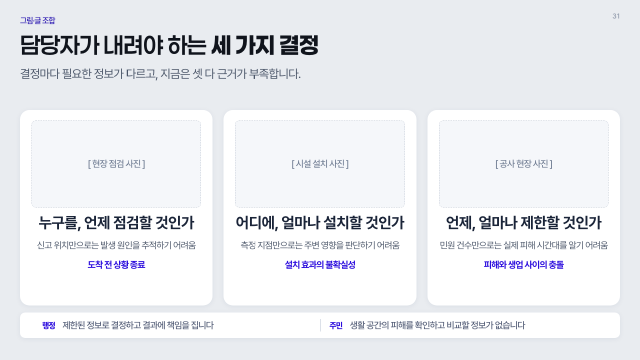
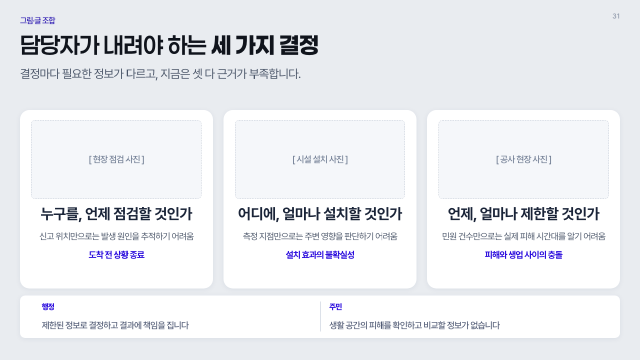
그래프: 시리즈 4개 제한 풀고(12개까지) 범례·색 정리, 막대 숫자 겹침 빼기, 원그래프(pie) 추가 — HTML·PPTX 둘 다
- 시리즈는 12개까지 그림. 색은 강조한 시리즈만, 나머지 회색. 범례는 모든 시리즈를 줄바꿈해 표시(전에는 5번째부터 색 없이 이름만 나오고 그래프에는 안 그려졌음)
- 값 숫자: 시리즈 3개까지는 전부, 4개 이상이면 강조한 시리즈만
- 막대 숫자가 서로 부딪히면 강조 순서(1→2→3→회색)대로 먼저 놓고 겹치는 숫자는 뺌. PPTX 막대 너비도 HTML 처럼 최대 5글자
- 원그래프(kind: pie): 12시 방향 시계 방향, 조각 색 colors.json chart.pie(primary 600→350→200 → gray), 조각 안 %(6% 이상), 오른쪽 범례 이름·값(비율). PPTX 는 기본 원형 차트 + 점별 라벨 글자색·숨김 보정
- 문서: outline-schema·block-choice(비중·구성비 → pie)·design-system 그래프 절. 견본 덱 다시 만듦

diff --git a/docs/templates/deck.html b/docs/templates/deck.html
@@ -276,9 +276,15 @@ table.rt{width:100%;border-collapse:collapse;font-size:calc(var(--fs-table) * va
 .pbar .trk{height:.75em;border-radius:999px;background:var(--bg-soft);overflow:hidden;} .pbar .trk i{display:block;height:100%;border-radius:999px;background:linear-gradient(90deg,var(--primary),var(--primary-2));}
 .pbar .pbf{border-top:1px solid var(--border);padding-top:.55em;text-align:center;font-size:var(--fs-label);font-weight:700;color:var(--primary);}
 /* kv: small table + highlight box side by side (성과 요약 카드) */
-.kv{display:flex;gap:1.2em;align-items:stretch;flex:1;min-height:0;}
-.kv .tbl{flex:1.4;min-height:0;display:flex;flex-direction:column;justify-content:center;}
-.kv .hbox{flex:1;}
+/* 카드 안 지표 비교(rows + highlight, 2026-10-18): 행 3개 이하면 좌우 칸(라벨 위·값 아래), 넘으면 표. 강조 상자는 그 아래 가로 한 줄 */
+.kv{display:flex;flex-direction:column;gap:.8em;flex:1;min-height:0;}
+.kv .tbl{flex:1;min-height:0;display:flex;flex-direction:column;justify-content:center;}
+.kv .kvh{flex:1;min-height:0;display:grid;grid-template-columns:repeat(var(--n),minmax(0,1fr));align-content:center;align-items:stretch;}   /* 라벨은 칸마다 같은 높이에서 시작 */
+.kv .kc{display:flex;flex-direction:column;align-items:center;justify-content:flex-start;text-align:center;gap:.35em;padding:0 .5em;}
+.kv .kc+.kc{border-left:1px solid var(--border);}
+.kv .kl{font-size:var(--fs-small);color:var(--text-mid);}
+.kv .kvv{font-size:var(--fs-table);font-weight:700;color:var(--text);line-height:1.25;word-break:keep-all;}
+.kv .hbox{flex:0 0 auto;flex-direction:row;align-items:baseline;gap:.5em;padding:.6em 1em;}
 .card .sl{font-size:var(--fs-small);color:var(--text-mid);font-weight:500;}
 .card .sv{font-size:var(--fs-stat);font-weight:800;color:var(--text);line-height:1.05;margin-top:.1em;letter-spacing:-.04em;font-variant-numeric:tabular-nums;}
 .card .sv small{font-size:.5em;margin-left:.05em;font-weight:700;}
@@ -343,7 +349,7 @@ table.rt{width:100%;border-collapse:collapse;font-size:calc(var(--fs-table) * va
 .chart .chh b{color:var(--body);font-weight:700;font-size:var(--fs-small);}   /* 그래프 제목 = 카드 안 소제목(.sh2)과 같은 글자 */
 .chart .chh span{color:var(--text-light);font-size:var(--fs-caption);}   /* 단위 = 캡션 글자 */
 .chart .cplot{flex:1;min-height:0;margin-top:.5em;display:flex;} .chart .cplot svg{width:100%;height:100%;display:block;}
-.chart .lg{display:flex;justify-content:center;gap:1.4em;font-size:var(--fs-small);color:var(--body);font-weight:500;margin-top:.35em;}   /* 범례 = 작은 라벨 톤 */ .chart .lg i{display:inline-block;width:.6em;height:.6em;border-radius:2px;margin-right:.4em;vertical-align:0;}
+.chart .lg{display:flex;flex-wrap:wrap;justify-content:center;gap:.3em 1.4em;font-size:var(--fs-small);color:var(--body);font-weight:500;margin-top:.35em;}   /* 범례 = 작은 라벨 톤 */ .chart .lg i{display:inline-block;width:.6em;height:.6em;border-radius:2px;margin-right:.4em;vertical-align:0;}
 /* cover / toc / divider / closing */
 /* 표지 배경 — meta.coverBg 로 고른 이미지. 마무리 장표도 같은 그림을 깐다(2026-10-18) */
 .cover{position:absolute;inset:0;overflow:hidden;color:#fff;}
@@ -698,7 +704,7 @@ table.rt{width:100%;border-collapse:collapse;font-size:calc(var(--fs-table) * va
     <div class="body" style="--body-top:220px;--safe-bottom:44px"><div class="blk" style="flex:1 1 0"><div class="inner"><div class="fcg" style="grid-template-columns:repeat(2,1fr)"><div class="fc fside"><div class="ftx"><div class="ftl">실시간 사고&nbsp;감지<br><b>골든타임&nbsp;확보</b></div></div><div class="fim"><div class="ph">[ 작업자 일러스트 ]</div></div></div><div class="fc fside"><div class="ftx"><div class="fey">설비 이상 징후&nbsp;등</div><div class="ftl">사고·고장<br><b>예방 수단&nbsp;확보</b></div></div><div class="fim"><div class="ph">[ 안전 장비 일러스트 ]</div></div></div><div class="fc fside"><div class="ftx"><div class="fey">지도·점검 기록&nbsp;필요</div><div class="ftl">법적&nbsp;의무<br><b>이행 근거&nbsp;확보</b></div></div><div class="fim"><div class="ph">[ 도면 든 작업자 일러스트 ]</div></div></div><div class="fc fside"><div class="ftx"><div class="ftl">순찰·점검&nbsp;인력<br><b>운영비&nbsp;절감</b></div></div><div class="fim"><div class="ph">[ 통제 표지 일러스트 ]</div></div></div></div></div></div></div>
     
   </section>
-<section class="slide" data-label="5-2 담당자가 내려야 하는 **세 가지 결정**" id="s31" data-fit="1" style="--k: 1.16;" style="--k:1.15">
+<section class="slide" data-label="5-2 담당자가 내려야 하는 **세 가지 결정**" id="s31" data-fit="1" style="--k: 1.13;" style="--k:1.12">
     <div class="top"><div class="eyebrow"><span>그림·글 조합</span><span class="pgno">31</span></div><div class="stitle">담당자가 내려야 하는 <b>세 가지&nbsp;결정</b></div><div class="rule"></div><div class="slead">결정마다 필요한 정보가 다르고, 지금은 셋 다 근거가 부족합니다.</div></div>
     <div class="body" style="--body-top:220px;--safe-bottom:44px"><div class="blk" style="flex:1 1 0"><div class="inner"><div class="fcg" style="grid-template-columns:repeat(3,1fr)"><div class="fc ftop ctr"><div class="fim"><div class="ph">[ 현장 점검 사진 ]</div></div><div class="ftl">누구를, 언제 점검할 것인가</div><div class="fds">신고 위치만으로는 발생 원인을 추적하기 어려움</div><div class="fnt">도착 전 상황&nbsp;종료</div></div><div class="fc ftop ctr"><div class="fim"><div class="ph">[ 시설 설치 사진 ]</div></div><div class="ftl">어디에, 얼마나 설치할 것인가</div><div class="fds">측정 지점만으로는 주변 영향을 판단하기 어려움</div><div class="fnt">설치 효과의 불확실성</div></div><div class="fc ftop ctr"><div class="fim"><div class="ph">[ 공사 현장 사진 ]</div></div><div class="ftl">언제, 얼마나 제한할 것인가</div><div class="fds">민원 건수만으로는 실제 피해 시간대를 알기 어려움</div><div class="fnt">피해와 생업 사이의&nbsp;충돌</div></div></div></div></div><div class="blk" style="flex:0 0 auto"><div class="inner"><div class="strip"><div class="sit kv"><b>행정</b><span>제한된 정보로 결정하고 결과에 책임을 집니다</span></div><div class="sit kv"><b>주민</b><span>생활 공간의 피해를 확인하고 비교할 정보가 없습니다</span></div></div></div></div></div>
     
@@ -770,7 +776,37 @@ table.rt{width:100%;border-collapse:collapse;font-size:calc(var(--fs-table) * va
   var draw = function(b, W, H, C, fs) {
   fs = fs || 21;   // 글자 기준 크기(px) = 장표의 작은 글(--fs-small × 배율). 그림 좌표 1 = 화면 1px
   var esc = function(s) { return String(s == null ? '' : s).replace(/[&<>"]/g, function(c) { return ({'&':'&amp;','<':'&lt;','>':'&gt;','"':'&quot;'})[c]; }); };
-  var labels = b.labels || [], series = (b.series || []).slice(0, 4), cols = b.colors || C.series;
+  var labels = b.labels || [], series = (b.series || []).slice(0, 12), cols = b.colors || C.series;
+  var out = '<svg viewBox="0 0 ' + W + ' ' + H + '" preserveAspectRatio="xMidYMid meet" xmlns="http://www.w3.org/2000/svg" font-family="inherit">';
+  var lum = function(hex) { var m = String(hex).replace('#', ''); if (m.length !== 6) return 0; var r = parseInt(m.slice(0, 2), 16), g = parseInt(m.slice(2, 4), 16), bb = parseInt(m.slice(4, 6), 16); return (0.299 * r + 0.587 * g + 0.114 * bb) / 255; };
+  if (b.kind === 'pie') {
+    // 원그래프(2026-10-18) — 첫 시리즈 값만 쓴다. 12시 방향에서 시계 방향, 조각 사이 흰 선. 조각 안에는 비율(%), 오른쪽 범례에 이름 · 값 · 비율.
+    // 6% 미만 조각은 안에 글자를 넣지 않는다(범례에서 읽음). 진한 조각은 흰 글자, 연한 조각은 진한 글자
+    var pv = ((series[0] || {}).values || []).map(function(v) { return typeof v === 'number' && v > 0 ? v : 0; });
+    var tot = pv.reduce(function(a, v) { return a + v; }, 0) || 1;
+    var fsl = fs * (C.labelRatio || 0.875), rowH = fs * 1.75, lgW = Math.min(W * 0.46, fs * 11);
+    var R = Math.max(10, Math.min((H - fs) / 2, (W - lgW - fs * 3) / 2)), grpW = R * 2 + fs * 2.5 + lgW, gx = Math.max(0, (W - grpW) / 2), cx = gx + R, cy = H / 2;   // 원 + 범례를 한 덩어리로 가운데
+    var pct = function(v) { var p = v / tot * 100; return (p >= 10 || p === 0 ? Math.round(p) : Math.round(p * 10) / 10) + '%'; };
+    var a0 = -Math.PI / 2;
+    pv.forEach(function(v, i) {
+      if (!v) return;
+      var a1 = a0 + v / tot * Math.PI * 2, col = cols[i];
+      if (v >= tot) out += '<circle cx="' + cx + '" cy="' + cy + '" r="' + R + '" fill="' + col + '"/>';
+      else out += '<path d="M' + cx + ',' + cy + ' L' + (cx + R * Math.cos(a0)).toFixed(1) + ',' + (cy + R * Math.sin(a0)).toFixed(1) + ' A' + R + ',' + R + ' 0 ' + (a1 - a0 > Math.PI ? 1 : 0) + ' 1 ' + (cx + R * Math.cos(a1)).toFixed(1) + ',' + (cy + R * Math.sin(a1)).toFixed(1) + ' Z" fill="' + col + '" stroke="#FFFFFF" stroke-width="2" stroke-linejoin="round"/>';
+      if (v / tot >= 0.06) { var am = (a0 + a1) / 2, tr = v >= tot ? 0 : R * 0.64; out += '<text x="' + (cx + tr * Math.cos(am)).toFixed(1) + '" y="' + (cy + tr * Math.sin(am) + fs * 0.35).toFixed(1) + '" text-anchor="middle" font-size="' + fs + '" font-weight="700" font-variant-numeric="tabular-nums" fill="' + (lum(col) < 0.55 ? '#FFFFFF' : C.text) + '">' + pct(v) + '</text>'; }
+      a0 = a1;
+    });
+    var lx0 = gx + R * 2 + fs * 2.5, lx1 = lx0 + lgW, ly0 = cy - rowH * pv.length / 2 + rowH / 2;
+    pv.forEach(function(v, i) {
+      var yy = ly0 + rowH * i;
+      out += '<rect x="' + lx0 + '" y="' + (yy - fs * 0.32) + '" width="' + (fs * 0.6) + '" height="' + (fs * 0.6) + '" rx="2" fill="' + cols[i] + '"/>';
+      out += '<text x="' + (lx0 + fs * 1.05) + '" y="' + (yy + fs * 0.32) + '" font-size="' + fsl + '" font-weight="500" fill="' + C.body + '">' + esc(labels[i] == null ? '' : labels[i]) + '</text>';
+      out += '<text x="' + lx1 + '" y="' + (yy + fs * 0.32) + '" text-anchor="end" font-size="' + fsl + '" font-weight="600" font-variant-numeric="tabular-nums" fill="' + C.text + '">' + esc((series[0].values || [])[i]) + ' <tspan fill="' + C.textMid + '" font-weight="500">(' + pct(v) + ')</tspan></text>';
+    });
+    return out + '</svg>';
+  }
+  // 값 숫자를 다는 시리즈(2026-10-18): 3개까지는 전부, 4개 이상이면 강조(색을 받은) 시리즈만 — 회색 시리즈 숫자까지 달면 읽을 수 없다
+  var showV = series.map(function(sr) { return series.length <= 3 || sr.em !== false; });
   var all = [].concat.apply([], series.map(function(sr) { return sr.values || []; })).filter(function(v) { return typeof v === 'number'; });
   var max = Math.max.apply(null, [1].concat(all)) * 1.25, min = Math.min.apply(null, [0].concat(all));
   var padL = 20, padR = 20, padT = fs * 2.2, padB = fs * 2.6;   // 좌우 여백 20px, 위는 값 라벨, 아래는 축 라벨 자리
@@ -793,18 +829,26 @@ table.rt{width:100%;border-collapse:collapse;font-size:calc(var(--fs-table) * va
     for (i = 0; i < k - 1; i++) { var hh = dx[i] / 3; d += ' C' + (pts[i][0] + hh).toFixed(1) + ',' + (pts[i][1] + t[i] * hh).toFixed(1) + ' ' + (pts[i + 1][0] - hh).toFixed(1) + ',' + (pts[i + 1][1] - t[i + 1] * hh).toFixed(1) + ' ' + pts[i + 1][0] + ',' + pts[i + 1][1]; }
     return d;
   };
-  var out = '<svg viewBox="0 0 ' + W + ' ' + H + '" preserveAspectRatio="xMidYMid meet" xmlns="http://www.w3.org/2000/svg" font-family="inherit">';
   for (var g = 0; g <= 4; g++) { var gy = (padT + (H - padT - padB) * g / 4).toFixed(1); out += '<line x1="' + padL + '" y1="' + gy + '" x2="' + (W - padR) + '" y2="' + gy + '" stroke="' + C.border + '" stroke-opacity=".6" stroke-width="1"/>'; }
   var fl = fs * (C.labelRatio || 0.875);   // 축 라벨 = 라벨 토큰(14/16)
   labels.forEach(function(l, i) { out += '<text x="' + lx(i) + '" y="' + (H - padB + fs * 1.7) + '" text-anchor="middle" font-size="' + fl + '" font-weight="500" fill="' + C.body + '">' + esc(l) + '</text>'; });   // 축 라벨 = 작은 라벨(.stat .sl)
   if (b.kind === 'bar') {
-    var bw = Math.min(fs * 5, gw * 0.72 / series.length), r = series.length > 1 ? fs * 0.3 : fs * 0.5;
+    var bw = Math.min(fs * 5, gw * 0.72 / series.length), r = series.length > 1 ? fs * 0.3 : fs * 0.5, gapB = Math.min(8, bw * 0.25), cand = [];
     series.forEach(function(sr, si) { (sr.values || []).forEach(function(v, i) {
-      var bx = padL + gw * i + gw / 2 - (bw * series.length) / 2 + bw * si + 4, w = bw - 8;
+      var bx = padL + gw * i + gw / 2 - (bw * series.length) / 2 + bw * si + gapB / 2, w = Math.max(1, bw - gapB);
       var top = y(v), bot = H - padB, rr = Math.min(r, Math.max(0, bot - top) / 2, w / 2);
       out += '<path d="M' + bx + ',' + bot + ' V' + (top + rr) + ' Q' + bx + ',' + top + ' ' + (bx + rr) + ',' + top + ' H' + (bx + w - rr) + ' Q' + (bx + w) + ',' + top + ' ' + (bx + w) + ',' + (top + rr) + ' V' + bot + ' Z" fill="' + cols[si] + '"/>';
-      out += '<text x="' + (bx + w / 2) + '" y="' + (top - fs * 0.6) + '" text-anchor="middle" font-size="' + fs + '" font-weight="600" font-variant-numeric="tabular-nums" fill="' + C.text + '"' + halo + '>' + esc(v) + '</text>';
+      if (showV[si] && typeof v === 'number') cand.push({ si: si, v: v, cx: bx + w / 2, by: top - fs * 0.6, tw: String(v).length * fs * 0.6 + 4 });
     }); });
+    // 막대 숫자 겹침(2026-10-18): 막대가 좁아 숫자끼리 부딪히면 강조 순서(1→2→3, 그다음 회색)대로 먼저 놓고, 이미 놓인 숫자와 겹치는 것은 뺀다
+    var rank = function(c) { var e = series[c.si].emphasis; return series[c.si].em === false ? 9 : (e || 1); };
+    cand.sort(function(a, c) { return rank(a) - rank(c) || a.si - c.si; });
+    var placed = [];
+    cand.forEach(function(c) {
+      var hit = placed.some(function(p) { return Math.abs(p.cx - c.cx) < (p.tw + c.tw) / 2 && Math.abs(p.by - c.by) < fs * 0.95; });
+      if (hit) return; placed.push(c);
+      out += '<text x="' + c.cx.toFixed(1) + '" y="' + c.by.toFixed(1) + '" text-anchor="middle" font-size="' + fs + '" font-weight="600" font-variant-numeric="tabular-nums" fill="' + C.text + '"' + halo + '>' + esc(c.v) + '</text>';
+    });
   } else {
     // 값 라벨 자리(2026-10-18) — 같은 달에 선끼리 높이가 비슷하면 숫자가 겹쳐 안 보였다. 달마다 점을 위→아래로 줄 세우고,
     // 가까운 점(1.9글자 이내)끼리 묶어 위쪽 절반은 맨 위 점 위로 쌓고 아래쪽 절반은 맨 아래 점 밑으로 쌓는다(줄 순서 = 선 순서).
@@ -812,7 +856,7 @@ table.rt{width:100%;border-collapse:collapse;font-size:calc(var(--fs-table) * va
     var ly = series.map(function() { return []; }), gap = fs * 1.05, near = fs * 1.9, topY = fs * 0.95, botY = H - padB - fs * 0.15;
     for (var ci = 0; ci < n; ci++) {
       var col = [];
-      series.forEach(function(sr, si) { var v = (sr.values || [])[ci]; if (typeof v === 'number') col.push({ si: si, py: y(v) }); });
+      series.forEach(function(sr, si) { var v = (sr.values || [])[ci]; if (showV[si] && typeof v === 'number') col.push({ si: si, py: y(v) }); });
       col.sort(function(a, c) { return a.py - c.py; });
       var cut = [0];   // 묶음 시작 위치들
       for (var c0 = 1; c0 < col.length; c0++) if (col[c0].py - col[c0 - 1].py >= near) cut.push(c0);
@@ -857,6 +901,15 @@ table.rt{width:100%;border-collapse:collapse;font-size:calc(var(--fs-table) * va
   if (document.readyState === 'loading') document.addEventListener('DOMContentLoaded', redraw); else redraw();
   window.addEventListener('load', redraw);
   window.addEventListener('resize', redraw);
+})();
+</script>
+<script>
+/* 미리보기 화면이 다른 주소(웹 판 → 내 컴퓨터 서버)에서 이 덱을 띄우면 장을 직접 읽을 수 없다.
+   장이 바뀔 때마다 바깥 창에 "몇 번째 장 · 어느 섹션의 몇 번째 장(data-src)" 을 알려 준다 — 템플릿 바꾸기 단추가 쓴다(2026-10-18) */
+(function () {
+  if (window.parent === window) return;
+  function send(i) { var s = document.querySelectorAll('deck-stage > section')[i]; try { window.parent.postMessage({ pptDeckSlide: i, src: s ? s.getAttribute('data-src') : null }, '*'); } catch (e) {} }
+  window.addEventListener('message', function (e) { if (e.source === window && e.data && typeof e.data.slideIndexChanged === 'number') send(e.data.slideIndexChanged); });
 })();
 </script>
 <script src="deck-stage.js"></script>

diff --git a/skills/ppt-maker/references/design-system.md b/skills/ppt-maker/references/design-system.md
@@ -29,6 +29,7 @@
 - **그래프 색**(2026-10-11): 시리즈는 `emphasis` 1~3 을 준 것만 색을 받고 나머지는 gray 400. 위계 없음(`ranked` 없음) = primary 600 → teal → gold, 위계 있음(`ranked: true`) = primary 600 → 350(`#6C59FF`, 400과 300의 중간) → 200. 아무도 emphasis 가 없으면 첫 시리즈만 강조. 값은 `colors.json` 의 `chart`.
 - **회색 이름**(2026-10-11): gray 50 `#F5F7FA`(표 타이틀 바탕) · 100 `#E9ECF0`(장표 바탕) · 200 `#D9DEE6`(표 안쪽 선) · 300 `#CFD4DC` · 400 `#B9C3D2`(안내선·그래프 비강조) · 500 `#8B95A7`(캡션·장 번호) · 600 `#515B75`(카드 소제목·축 라벨) · 700 `#4A5568`(리드·표 머리글·표 선) · 800 `#1A2438`(본문) · 900 `#10141C`(헤드라인·강조 배너). 코드의 `--text`·`--text-mid` 같은 이름은 `gray.role` 로 이 단계에 묶인다.
 - **그래프(chart)**(2026-10-10): 글자 역할은 기존 부품과 맞춘다 — 제목은 카드 안 소제목(`.sh2`: 본문 0.94배 굵게 `--body`), 단위는 캡션 톤(`--text-light`, 작은 글 −4px), 축 라벨·범례는 작은 라벨(`--body` 500), 값은 표 값(600 `--text` tabular). 그래프 칸의 실제 크기대로 그린다(그림 1 = 화면 1px). **좌우 여백 20px**, 가로 격자선 4칸. 글자는 그 칸의 작은 글 크기(`--fs-small` × 배율)를 따른다 — 축 라벨 0.9배, 값 라벨 1배, 점 반지름 0.3배, 선 굵기 0.18배, 막대 최대 너비 5배(묶음 너비의 72%). 시리즈가 둘 이상이면 값 숫자에 흰 테두리 8px(다른 선·막대와 겹쳐도 읽히게). **선 그래프 값 숫자는 서로 겹치면 안 된다**(2026-10-18): 같은 달에 선 높이가 비슷하면(1.9글자 이내) 묶어서 위쪽 선 숫자는 맨 위 점 위로, 아래쪽 선 숫자는 맨 아래 점 밑으로 한 줄씩(1.05글자 간격) 쌓는다. 숫자 줄 순서 = 선 순서. 위 묶음 아래 숫자와 아래 묶음 위 숫자가 부딪히면 두 묶음을 합치고, 그림 위·축 라벨 칸을 넘지 않게 당긴다. 숫자는 모든 선·점을 그린 뒤에 그린다. PPTX 도 같은 규칙: 시리즈가 둘 이상인 선 그래프는 그림 칸을 고정하고, 저장한 뒤 점별 값 라벨(c:dLbl)에 위치만 옮겨 넣는다(서식·데이터 편집은 그대로). 값 서식은 모두 정수면 `#,##0`, 아니면 `General`(`#,##0.##` 는 PowerPoint 에서 "8." 처럼 점이 붙는다).
+- **그래프 개수 규칙·원그래프**(2026-10-18): 시리즈는 12개까지 그린다(권장 1~3). 색은 강조(`emphasis`)한 시리즈만, 나머지는 회색(`chart.other`). 범례는 모든 시리즈를 줄바꿈해 보여 준다. **값 숫자는 시리즈 3개까지는 전부, 4개 이상이면 강조한 시리즈만.** 막대 숫자가 좁아서 서로 부딪히면 강조 순서(1→2→3→회색)대로 먼저 놓고 겹치는 숫자는 뺀다. 막대 너비는 최대 5글자(PPTX 는 막대 사이 간격을 넓혀 맞춤). **원그래프(`kind: "pie"`)**: 12시 방향에서 시계 방향, 조각 사이 흰 선 2px, 조각 색은 `chart.pie`(primary 600→350→200 → gray 500→400→300→200). 조각 안 비율(%)은 6% 이상만, 진한 조각은 흰 글자·연한 조각은 진한 글자. 원 오른쪽 범례 = 색 · 이름 · 값 (비율), 원과 범례를 한 덩어리로 가운데. PPTX 는 기본 원형 차트 + 범례는 글상자.
 - **간트(gantt)**(2026-10-09, 레퍼런스 "시간표" 모양으로 바꿈): 위에 진한 머리띠(`--primary-deep`, 내용보다 좌우 8px 넓게, 글자는 내용 끝선에 맞춤, 아래 행과 8px 간격, 열 라벨 흰 글자 왼쪽 정렬, 열 사이 연한 세로선), 왼쪽 항목 이름 열(24%, 굵게). 이름 끝에서 막대 시작까지 1px 안내선(`--border-strong`). 막대는 글자 1.45배 높이, 라벨(`label`)은 막대 안 흰 글자, `from`·`to`는 막대 앞뒤 회색 작은 글자. 막대 색은 tone — primary 메인 / second `--primary-2` / accent 알약 그라데이션 색 / muted `--text-mid`. 오른쪽 끝에는 `to` 라벨 자리(3.4em)를 머리띠·트랙 모두 비워 둔다. 세로 격자선·가로 구분선 없음.
 - **표**(2026-10-04, Figma SAFE AI 디자인 시스템 Data Table 을 따름): 시작·끝은 **3px 회색 선**(`--text-mid` #4A5568, 2026-10-09 검정 2px 에서 바꿈), 안쪽 행 구분은 1px 연회색 선(`--border`), 세로선 없음. **타이틀 영역(머리글 행)** 은 연회색 바탕(`--bg-soft`)·**굵게(bold)·회색 글자(`--text-mid`)**. **본문 칸은 보통 굵기(regular)·검정(`--text`)**. **세로 타이틀이 있는 표(`rowHeader: true`)** 는 첫 열도 타이틀 영역 — 연회색 바탕·굵게·회색 글자, 오른쪽 1px 선. 첫 칸이 합계·총계·평균인 행만 연회색 바탕·굵게. 배지 색(2026-10-09): 달성·완료·충족은 메인 컬러 계열(연한 메인 바탕 + 메인 글자), 조기달성은 `--primary-2`, 진행중은 주황, 미달은 회색. **정렬**: 금액·비율·개수처럼 수치 열(빈 칸을 뺀 칸의 60% 이상이 수치, 2026-10-18)은 오른쪽(tabular-nums), 글이 섞인 열("1분 이내", "다음 날")과 첫 열은 왼쪽. 빈 칸·대시는 세지 않는다. 강조 열만 머리글 포인트 컬러 글자(밑줄은 다른 열과 같은 1px 선), 칸은 글자색만 포인트 컬러(바탕 칠하지 않음, 굵기 그대로). **카드 안 작은 표(라벨·값 두 칸, `rows`)** 는 표가 아니라 값 목록처럼: 위·아래 검정 선 없음, 라벨 회색(`--text-mid`), 값 오른쪽 정렬·굵게, 행 사이 1px 선. **크기는 내용에 맞춘다**: `widths` 가 없으면 열 너비를 칸 글자 양에 맞춰 나누고(긴 글 열은 넓게, 숫자 열은 좁게, 열마다 최소 8%), 머리글도 칸이 좁으면 줄바꿈한다. 세로는 본문 배율(`--k`)을 0.75까지 줄이고, 그래도 넘치면 표 글자만 0.75배(`--kt`, 약 10pt)까지 더 줄인다. 그래도 한 장에 안 들어가는 표는 빌드할 때 행을 고르게 나눠 여러 장으로 편다(머리글 반복, 제목 뒤 "(계속)", 표 위 블록은 첫 장·아래 블록은 마지막 장).
 - **배너(callout)**(2026-10-08 밝게 반전): 메인 컬러를 아주 연하게 깐 둥근 박스(`--banner` = 메인 12% · 보라면 연보라) + 메인 컬러를 연하게 한 테두리 1.5px(`--banner-border` = 메인 40%)로 연회색 장표 바탕과 구분한다. **라벨("특이사항"/"참고"/"핵심 요약")은 박스 안 왼쪽**에 포인트 컬러(`--banner-label`) 15pt 굵게, 본문 불릿은 오른쪽에 회색(`--banner-text` #515B75) 14pt, 본문 안 굵은 글씨는 포인트 컬러. 밖으로 걸치는 흰 칩은 쓰지 않는다. 배너는 **낮게** 쓴다: 안쪽 여백 `.75em 1.6em`(small 기준), 라벨–본문 간격 1.6em, 줄 사이 ≤0.35em. **위계 셋**(2026-10-09): 기본 = 위 연한 메인 컬러 바탕(테두리는 메인 32%) · `warn` 주의 = 진보라 바탕(primary 800 에 검정 30% #1C0F7B, 2026-10-18 — 빨강은 너무 튀었다. 메인 컬러를 바꾸면 같이 바뀐다)·흰 라벨·연보라 본문 · `strong` 강조 = 검정 바탕(`--title`)·흰 라벨·연회색 본문(`--border`). **라벨은 가운데가 아니라 본문 첫 줄과 같은 높이에서 시작**(`align-items:baseline`).

diff --git a/skills/ppt-maker/references/outline-schema.md b/skills/ppt-maker/references/outline-schema.md
@@ -75,7 +75,7 @@
 | `gantt` | `cols:["1월",…], nameHeader?, tasks:[{name, start, end, tone?:"primary"\|"second"\|"accent"\|"muted", label?(막대 안), from?·to?(막대 앞뒤 시작·끝 표시)}], heading?` | **여러 일이 겹치는 일정표.** 왼쪽 항목 이름, 위 기간 라벨, 세로 격자선, 가로 막대. `start`·`end` 는 1부터 세는 칸 번호(끝 포함, 2.5 처럼 반 칸 가능). 막대 색은 tone(기본 포인트 컬러, muted 회색). 겹치지 않는 단계 나열은 timeline | 행 3~8 · 칸 4~12 |
 | `table` | `headers, rows, emphasize?(열 index), leftAlign?([열 index]), widths?(["20%",…]), rowHeader?(true)` | 비교표, 평가지표 대응표, 예산. 강조 열은 글자색만 포인트 컬러(바탕·굵기는 그대로). `widths` 를 안 주면 열 너비는 칸 글자 양에 맞춰 자동으로 나뉜다. 한 장에 다 안 들어가는 표는 빌드할 때 행을 고르게 나눠 여러 장으로 편다(머리글 반복, 제목 뒤 "(계속)"). 첫 열이 각 행의 항목 이름(세로 타이틀)이면 `rowHeader: true` → 첫 열도 머리글처럼 연회색 바탕·회색 글자. 셀에 `**굵게**` 가능. "달성/조기달성/진행중" 은 배지로 표시 | 행 3~7 |
 | `stats` | `stats:[{label, sub?, value, desc?}]` | 핵심 수치 카드(`label` = 라벨 칩, `sub` = 작은 지표명, `value` 큰 숫자+단위, `desc` 파란 보조 문장 "전월 31만 회 · 35% 성장") | 2~4 |
-| `chart` | `kind:"line"\|"bar", title, unit?, labels:[…], series:[{name, values:[…], emphasis?:1\|2\|3}], ranked?:true, heading?` | **월별 추이 등 수치는 표로 나열하지 말고 그래프로**. 시리즈 1~3개. **색은 강조로 정한다**: `emphasis` 1~3 을 준 시리즈만 색을 받고 나머지는 연한 회색. 강조끼리 위계(1위>2위>3위)가 있으면 `ranked: true` → primary 600→350→200, 대등하면 primary→teal→gold. 아무것도 안 적으면 첫 시리즈만 강조. 채널별 추이 그래프는 형식을 통일 | 1 |
+| `chart` | `kind:"line"\|"bar"\|"pie", title, unit?, labels:[…], series:[{name, values:[…], emphasis?:1\|2\|3}], ranked?:true, heading?` | **월별 추이 등 수치는 표로 나열하지 말고 그래프로**. 시리즈 1~3개 권장(12개까지 그림, 4개 이상이면 강조한 시리즈에만 값 숫자). **`pie`(원그래프)** 는 비중·구성비: `labels` = 조각 이름, `series[0].values` = 조각 값(큰 것부터, 2~6개 · 넘으면 "기타"로 묶기). 색은 메인 컬러 위계 → 회색 순, 조각 안 %, 오른쪽 범례에 이름·값(비율). **색은 강조로 정한다**: `emphasis` 1~3 을 준 시리즈만 색을 받고 나머지는 연한 회색. 강조끼리 위계(1위>2위>3위)가 있으면 `ranked: true` → primary 600→350→200, 대등하면 primary→teal→gold. 아무것도 안 적으면 첫 시리즈만 강조. 채널별 추이 그래프는 형식을 통일 | 1 |
 | `compare` | `left:{tag?, heading, items}, right:{tag?, heading, items}`, `result?:{heading, items:["…" \| {k, v}]}` | AS-IS→TO-BE, 난제→해법. `tag` 기본 AS-IS/TO-BE, 오른쪽이 연파랑 강조. **`result`** 를 주면 두 편을 붙여 놓고 ▶ 뒤에 번호 목록 결과판(비교 → 효과) | 항목 3~4 · 결과 3~4 |
 | `image` | `src, alt?, caption?, heading?, side:"left"\|"right"\|"full", ratio?:"16:9"\|"4:3"\|"1:1"\|"9:16"\|"3:4"\|"original", text?:{heading, items}, flex?` | 구성도·화면·사진. `src`가 비어 있으면 `[ alt ]` 점선 자리표시자. **`ratio` 기본 16:9** — 원본이 다르면 사용자에게 묻고, 고른 비율 상자에 맞춰 가장자리를 잘라 채운다(`original` 만 안 자름) | 1 |
 | `figcards` | `cards:[{head?:{no, text}, eyebrow?, title, desc?, items?, note?, foot?:{label, text}, image, alt?}]`, `layout:"side"\|"top"`, `cols?`, `arrows?`, `align?:"left"` | **그림 카드.** `side`: 글 왼쪽(작은 보조 → 큰 제목, 둘째 줄 `**굵게**`), 그림 오른쪽 아래 모서리. `top`: 위 그림(카드 높이 50%, 잘라 채움) → 제목 → 설명 → `note`(포인트 컬러 결론) → `foot` 띠("활용 \| …"). `arrows` 는 한 줄일 때 카드 사이 › | 2~4 |

diff --git a/skills/ppt-maker/references/block-choice.md b/skills/ppt-maker/references/block-choice.md
@@ -18,6 +18,7 @@
 | --- | --- | --- |
 | 같은 지표가 시간에 따라 변한다 (4개 시점 이상) | `chart` (line) | "월별", "분기별 추이", "1월 → 6월" |
 | 항목끼리 크기를 비교한다 (같은 단위 숫자 3개 이상) | `chart` (bar) | "채널별", "지역별 매출", "A사 ○, B사 ○" |
+| 전체를 나눈 비중·구성비 (조각 2~6개, 합이 전체) | `chart` (pie) | "매출 구성", "연령대 비율", "○○%를 차지" |
 | 숫자 2~4개가 그 자체로 결론이다 | `stats` | "누적 120만", "정확도 98%", "3개월 만에" |
 | 숫자 하나 + 전기 대비 변화가 항목마다 있다 | `cards` + `rows`·`highlight` | "7월 ○ → 8월 ○, 18% 증가" |
 | 순서대로 거치는 단계가 있다 (앞이 끝나야 뒤가 시작) | `process` | "먼저", "그다음", "~후", "1단계" |
